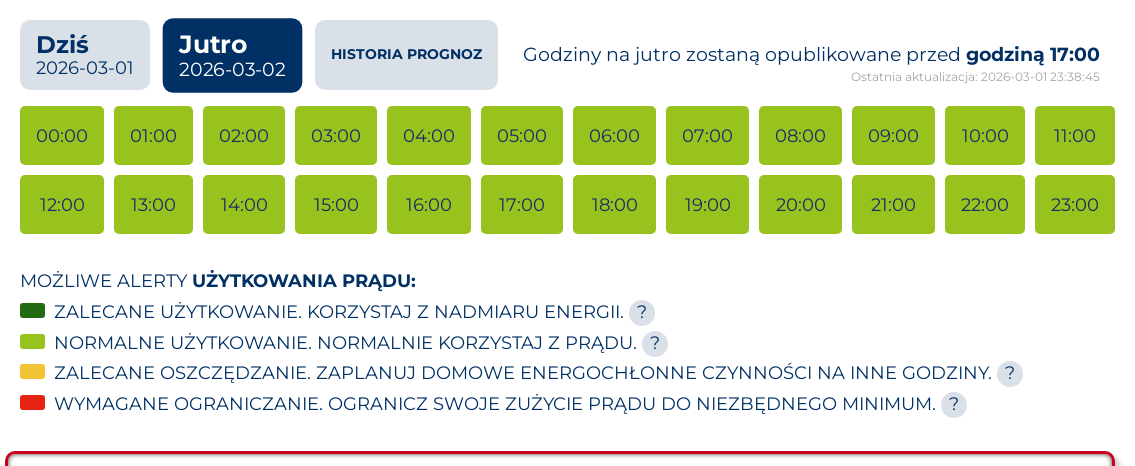
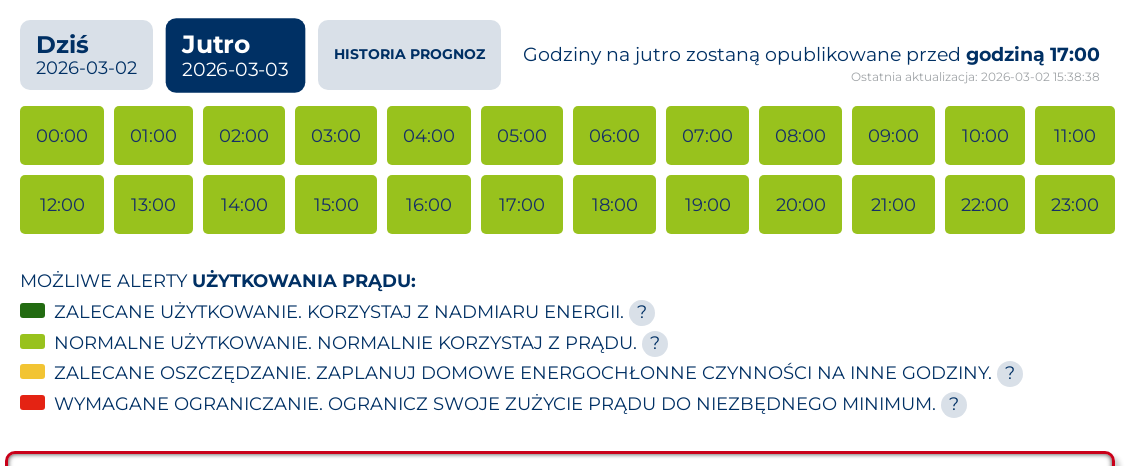
site: update 2026-03-02 15:38 UTC

Changed region(s): [[0.1233, 0.03, 0.4317, 0.2103]]

diff --git a/site/html_01_tabele_wykresy_g14_today_tomorrow.html b/site/html_01_tabele_wykresy_g14_today_tomorrow.html
@@ -144,7 +144,7 @@
 <section class="hero">
   <div class="kicker">Dane</div>
   <h1>Taryfa — dzisiaj i jutro</h1>
-  <p class="muted">Strona wygenerowana: 2026-03-02 14:04:23</p>
+  <p class="muted">Strona wygenerowana: 2026-03-02 16:38:54</p>
   <p class="muted">Dane (dzisiaj) — ostatnia próbka: 2026-03-02 23:45:00</p>
   <p class="muted">Dane (jutro) — ostatnia próbka: brak danych</p>
 </section>
@@ -470,22 +470,22 @@
             <td class="left-1">10:30</td>
             <td class="left-2">10:45</td>
             <td class="sell-ok">0,325</td>
-            <td class="cat-b">0,510</td>
-            <td class="cat-b">b</td>
+            <td class="cat-c">0,510</td>
+            <td class="cat-c">c</td>
           </tr>
           <tr>
             <td class="left-1">10:45</td>
             <td class="left-2">11:00</td>
             <td class="sell-ok">0,294</td>
-            <td class="cat-a">0,472</td>
-            <td class="cat-a">a</td>
+            <td class="cat-b">0,472</td>
+            <td class="cat-b">b</td>
           </tr>
           <tr>
             <td class="left-1">11:00</td>
             <td class="left-2">11:15</td>
             <td class="sell-ok">0,319</td>
-            <td class="cat-b">0,502</td>
-            <td class="cat-b">b</td>
+            <td class="cat-c">0,502</td>
+            <td class="cat-c">c</td>
           </tr>
           <tr>
             <td class="left-1">11:15</td>
@@ -498,8 +498,8 @@
             <td class="left-1">11:30</td>
             <td class="left-2">11:45</td>
             <td class="sell-ok">0,266</td>
-            <td class="cat-a">0,437</td>
-            <td class="cat-a">a</td>
+            <td class="cat-b">0,437</td>
+            <td class="cat-b">b</td>
           </tr>
           <tr>
             <td class="left-1">11:45</td>
@@ -540,8 +540,8 @@
             <td class="left-1">13:00</td>
             <td class="left-2">13:15</td>
             <td class="sell-ok">0,290</td>
-            <td class="cat-a">0,467</td>
-            <td class="cat-a">a</td>
+            <td class="cat-b">0,467</td>
+            <td class="cat-b">b</td>
           </tr>
           <tr>
             <td class="left-1">13:15</td>
@@ -561,8 +561,8 @@
             <td class="left-1">13:45</td>
             <td class="left-2">14:00</td>
             <td class="sell-ok">0,318</td>
-            <td class="cat-b">0,501</td>
-            <td class="cat-b">b</td>
+            <td class="cat-c">0,501</td>
+            <td class="cat-c">c</td>
           </tr>
           <tr>
             <td class="left-1">14:00</td>

diff --git a/site/html_02_raport_ze_stanu_teraz.html b/site/html_02_raport_ze_stanu_teraz.html
@@ -18,7 +18,7 @@
   </div>
 
   <section class="hero">
-    <div class="kicker">Ostatni odczyt: 02.03.2026 16:30</div>
+    <div class="kicker">Ostatni odczyt: 02.03.2026 16:38</div>
     <h1>Raport ze stanu teraz</h1>
     <p>
       Taryfy Tauron:
@@ -42,7 +42,7 @@
       <tbody>
         <tr>
           <th style="width:40%;">Czas odczytu</th>
-          <td>02.03.2026 16:30</td>
+          <td>02.03.2026 16:38</td>
         </tr>
         <tr>
           <th>Położenie</th>
@@ -62,11 +62,11 @@
       <tbody>
         <tr>
           <th style="width:40%;">Produkcja PV dzisiaj [kWh]</th>
-          <td>10.50</td>
+          <td>10.60</td>
         </tr>
         <tr>
           <th>Zużycie energii dzisiaj [kWh]</th>
-          <td>4.20</td>
+          <td>4.30</td>
         </tr>
         <tr>
           <th>Energia pobrana z sieci dzisiaj [kWh]</th>
@@ -78,11 +78,11 @@
         </tr>
         <tr>
           <th>Zużycie z własnego systemu dzisiaj [kWh]</th>
-          <td>2.30</td>
+          <td>2.40</td>
         </tr>
         <tr>
           <th>Wyjście inwertera dzisiaj [kWh]</th>
-          <td>4.40</td>
+          <td>4.70</td>
         </tr>
       </tbody>
     </table>
@@ -94,23 +94,23 @@
       <tbody>
         <tr>
           <th style="width:40%;">Moc PV [W]</th>
-          <td>750</td>
+          <td>721</td>
         </tr>
         <tr>
           <th>Moc z PV do systemu [W]</th>
-          <td>750</td>
+          <td>721</td>
         </tr>
         <tr>
           <th>Moc do domu [W]</th>
-          <td>229</td>
+          <td>704</td>
         </tr>
         <tr>
           <th>Moc z / do sieci [W]</th>
-          <td>229</td>
+          <td>17</td>
         </tr>
         <tr>
           <th>Moc z / do baterii [W]</th>
-          <td>n/a</td>
+          <td>704</td>
         </tr>
       </tbody>
     </table>
@@ -126,7 +126,7 @@
         </tr>
         <tr>
           <th>Tryb pracy baterii</th>
-          <td>Discharging</td>
+          <td>Charging</td>
         </tr>
         <tr>
           <th>Dostępna energia w baterii [kWh]</th>
@@ -150,7 +150,7 @@
         </tr>
         <tr>
           <th>Napięcie [V]</th>
-          <td>235.78</td>
+          <td>233.70</td>
         </tr>
         <tr>
           <th>Prąd [A]</th>

diff --git a/site/html_04_good_news.html b/site/html_04_good_news.html
@@ -31,7 +31,7 @@
 
   <section class="content">
 <h2>Dobre wiadomości</h2>
-<p>Pozytywne informacje ze świata • aktualizacja: 02.03.2026 13:04</p>
+<p>Pozytywne informacje ze świata • aktualizacja: 02.03.2026 15:38</p>
 <ul class="good-news-list">
 <li class="good-news-item">
 <a href="https://www.positive.news/science/innovation/how-a-police-data-centre-is-heating-londons-homes/" target="_blank" rel="noopener">Jak policyjne centrum danych ogrzewa domy w Londynie</a>

diff --git a/site/html_03_g13_g14_porownanie.html b/site/html_03_g13_g14_porownanie.html
@@ -18,7 +18,7 @@
   </div>
 
   <section class="hero">
-    <div class="kicker">Ceny sprzedaży i zakupu energii oraz tryb SolaX (ostatni odczyt: 2026-03-02 16:30:00, strona wygenerowana 2026-03-02 16:30:13)</div>
+    <div class="kicker">Ceny sprzedaży i zakupu energii oraz tryb SolaX (ostatni odczyt: 2026-03-02 16:38:24, strona wygenerowana 2026-03-02 16:38:54)</div>
     <h1>Ceny energii i tryb SolaX</h1>
     <p>
       Taryfy Tauron:
